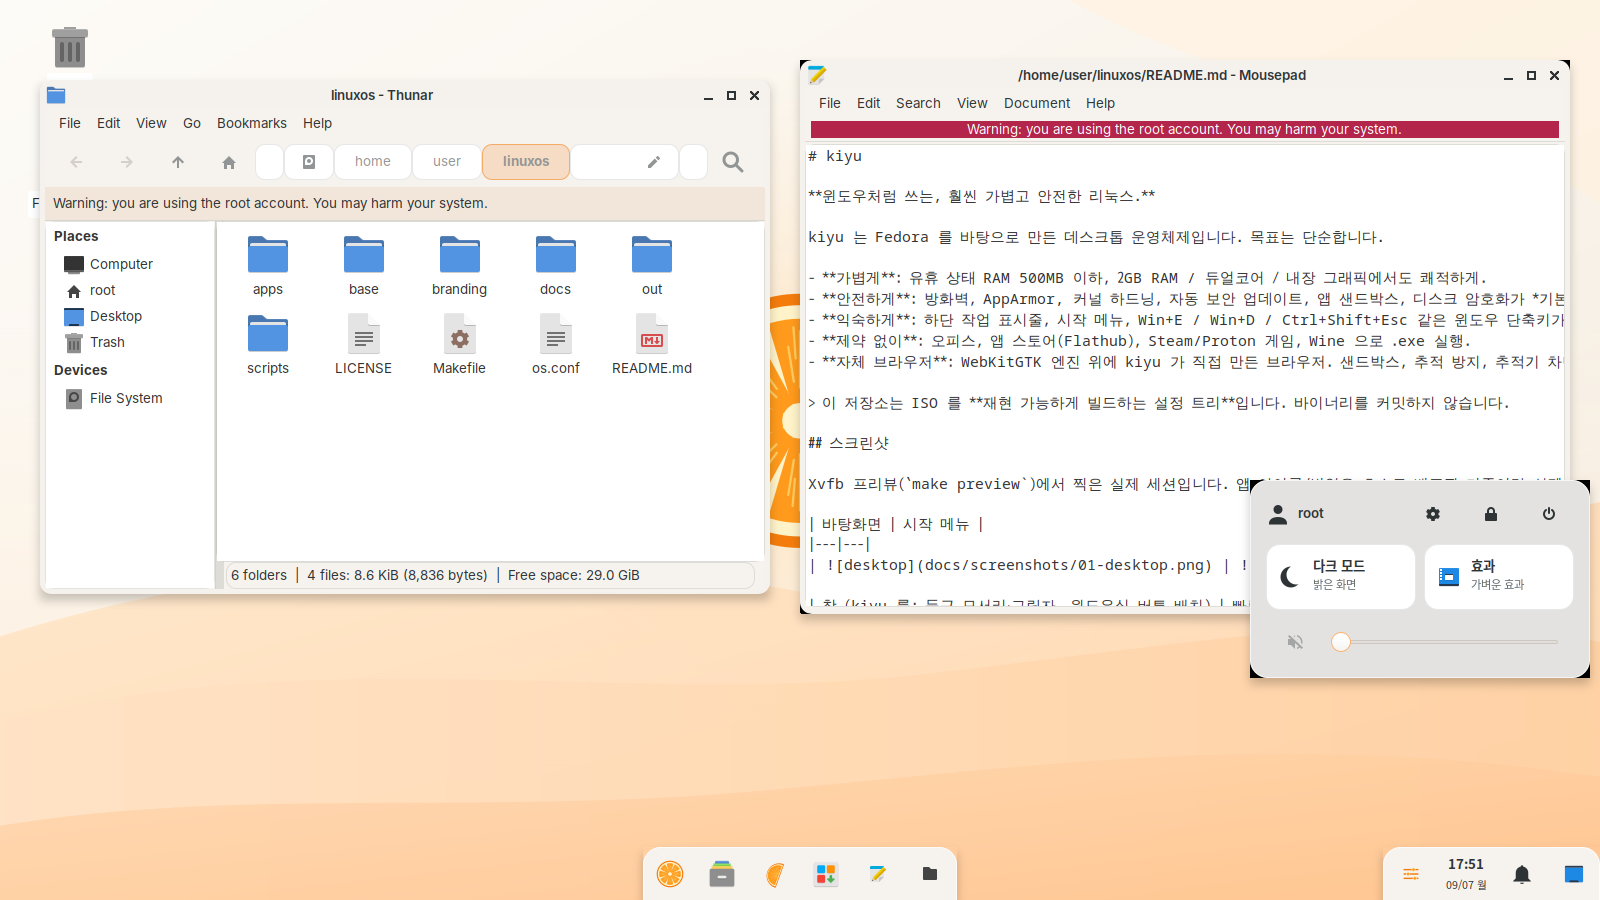
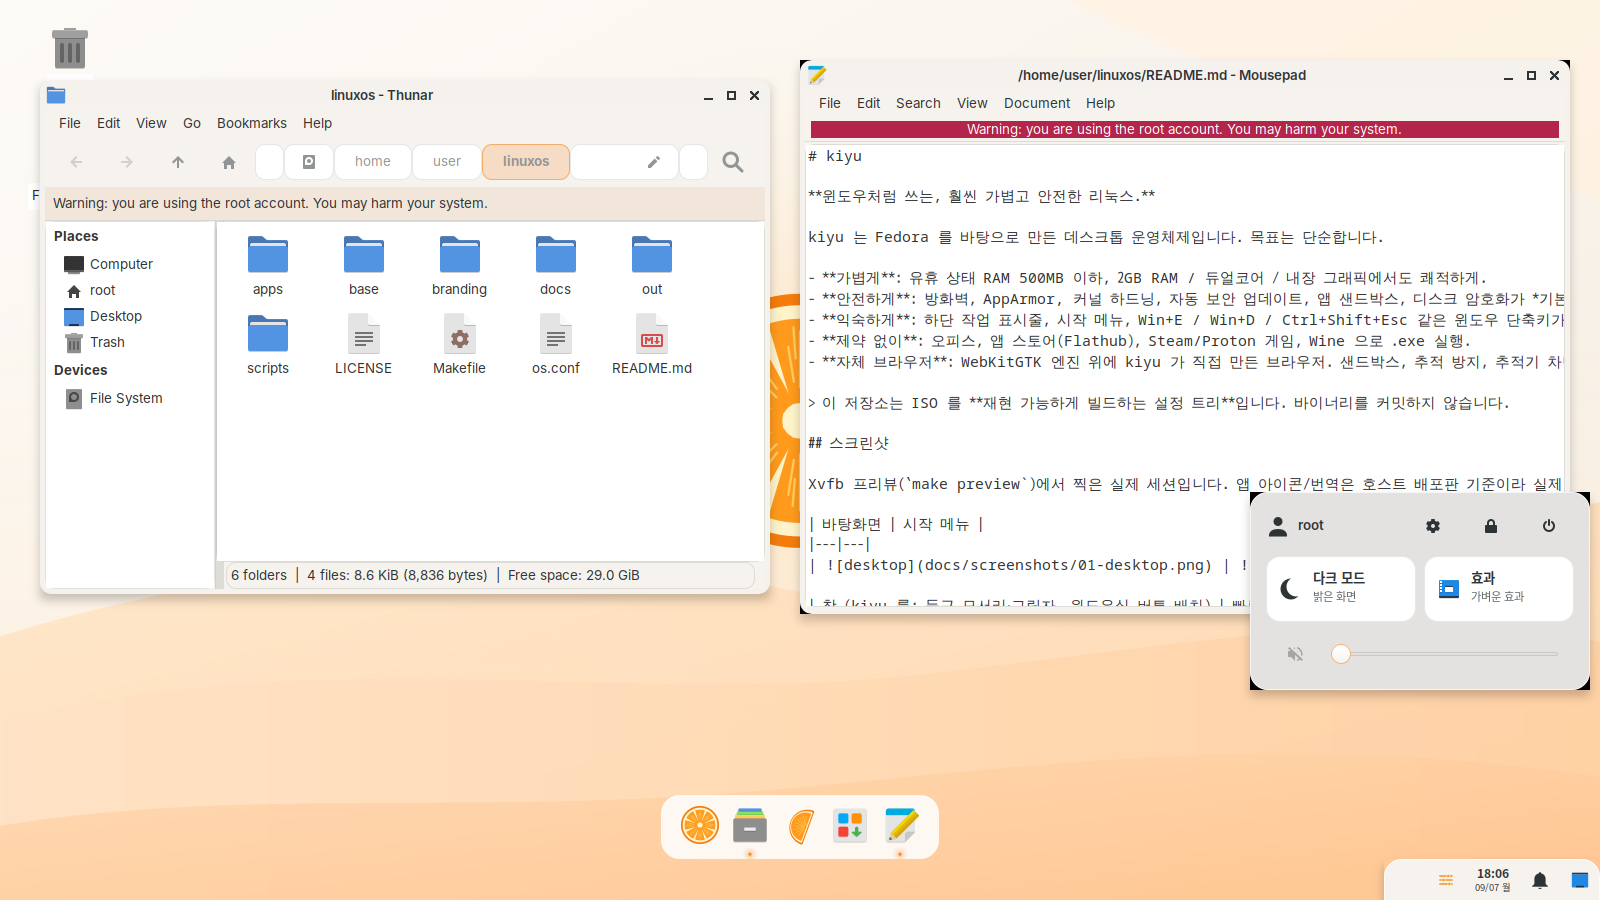
독을 Plank 로 교체: 가운데 떠 있는 독 + 오른쪽 알약
xfce4-panel 은 가장자리에서 띄울 수 없어 docklike 패널을 버리고 Plank 를
쓴다. Plank 는 오른쪽 알약(xfce4-panel)이 예약한 공간 위에 놓여 자연스럽게
떠 있고, 고정 앱 + 실행 중 창 + 점 표시로 윈도우식 동작을 유지한다.

- kiwi: plank, dconf 추가 / xfce4-docklike-plugin 제거
- /etc/dconf/db/local.d/00-kiyu-plank 기본값 (config.sh 가 dconf update),
  skel 의 dock1/launchers (시작·투나·탱자·소프트웨어), 자동 시작
- Plank 테마 kiyu / kiyu-dark (크림·다크 알약, 18px 라운드), 다크 모드 스크립트가 전환
- 패널은 오른쪽 알약 하나 (40px). whiskermenu 는 버튼을 숨기고 팝업 전용;
  독의 kiyu 로고와 Super 키가 `xfce4-popup-whiskermenu --pointer` 로 띄움
- picom: Plank 창은 그림자/라운드 제외 (자체 배경)
- 프리뷰 스크립트: plank 설치·설정, docklike 대체 코드 제거. 문서/스크린샷 갱신

Claude-Session: https://claude.ai/code/session_01DVt4fBqjhd9ckGmgeBjH8k

Changed region(s): [[0.7812, 0.5289, 1.0, 0.7778], [0.375, 0.8711, 0.625, 1.0], [0.8438, 0.9333, 1.0, 0.9956]]

diff --git a/base/fedora/root/etc/skel/.config/gtk-3.0/gtk.css b/base/fedora/root/etc/skel/.config/gtk-3.0/gtk.css
@@ -68,8 +68,7 @@ XfdesktopIconView.view:selected, .XfdesktopIconView.view:selected, XfdesktopIcon
 .xfce4-panel button, .xfce4-panel button.flat, .xfce4-panel button.toggle { border-radius: 12px; border: 1px solid transparent; background-color: transparent; background-image: none; box-shadow: none; padding: 4px 8px; }
 .xfce4-panel button:hover { background-color: alpha(@kiyu_accent, 0.12); }
 .xfce4-panel button:checked, .xfce4-panel button:active { background-color: alpha(@kiyu_accent, 0.20); }
-.xfce4-panel #whiskermenu-button { border-radius: 12px; }
-.xfce4-panel .docklike-button, .xfce4-panel #docklike button { padding: 4px 6px; }
+.xfce4-panel #whiskermenu-button { padding: 0; min-width: 1px; opacity: 0; }  /* 독/Super 키 팝업 전용, 버튼은 숨김 */
 
 /* 시작 메뉴 */
 #whiskermenu-window, #whiskermenu-window.background { border-radius: 18px; border: 1px solid alpha(@theme_base_color, 0.7); background-color: @kiyu_glass; }

diff --git a/apps/kiyu-control/kiyu-control.py b/apps/kiyu-control/kiyu-control.py
@@ -20,7 +20,7 @@ from gi.repository import Gdk, GLib, Gtk  # noqa: E402
 
 STATE_DIR = os.path.join(GLib.get_user_config_dir(), "kiyu")
 MARGIN = 10
-PANEL_H = 52 + MARGIN
+PANEL_H = 40 + MARGIN
 
 
 def run(cmd, timeout=3):

diff --git a/docs/architecture.md b/docs/architecture.md
@@ -68,8 +68,13 @@ Recommends 를 끄고 빌드하므로(`--apt-recommends false`) 이미지가 작
 ### 5b. 룩앤필: 사양을 먹지 않는 "트렌디"
 
 - **배경**: 크림 종이 위 파스텔 곡선(새벽 언덕)과 귤 단면 로고. 정적 PNG 한 장이라 비용 0.
-- **작업표시줄**: 가운데 독(시작 + 고정/실행 앱, docklike) + 오른쪽 알약(트레이·빠른 설정·시계·알림). 윈도우 11 배치에 macOS 독 느낌.
+- **독**: 가운데 떠 있는 독은 Plank (`plank` 패키지, `/etc/dconf/db/local.d/00-kiyu-plank`, 테마 `/usr/share/plank/themes/kiyu{,-dark}`).
+  고정 앱 + 실행 중 창을 한 아이콘으로, 실행 중이면 아래 점 (윈도우 작업표시줄과 같은 동작). 첫 아이콘(kiyu 로고)이 시작 메뉴.
+  xfce4-panel 은 화면 가장자리에서 띄우는 기능이 없어 독으로 쓰지 않는다. Plank 는 약 30~50 MB 상주.
+- **작업표시줄 알약**: 오른쪽 아래 xfce4-panel 하나 (트레이·빠른 설정·시계·알림·바탕화면 보기). whiskermenu 플러그인은
+  버튼을 숨긴 채 팝업 전용으로 들어 있다 (`xfce4-popup-whiskermenu --pointer` 가 독의 로고 클릭과 Super 키에서 호출).
   배경은 xfconf 가 아니라 `~/.config/gtk-3.0/gtk.css` 의 `.xfce4-panel` 이 그려서 테마 색(다크 모드)을 따라간다.
+  Plank 는 이 알약이 예약한 공간 위에 놓이므로 자연스럽게 바닥에서 떠 있다.
 - **창**: xfwm4 자체 컴포지팅 대신 picom(xrender) — 둥근 모서리 12px, 부드러운 그림자, 짧은 페이드. CPU 1~3%.
   유리 블러(glx, dual_kawase)는 GPU 없는 기기에서 비싸므로 기본 OFF, 빠른 설정 "효과" 스위치로 켠다 (`/usr/lib/kiyu/compositor`).
 - **빠른 설정** (`apps/kiyu-control`): Wi-Fi/블루투스/다크 모드/효과 토글, 소리·밝기, 배터리. 상주하지 않는 Python GTK 창(열려 있을 때만 ~20 MB).

diff --git a/docs/roadmap.md b/docs/roadmap.md
@@ -3,9 +3,9 @@
 ## 0.2 – Fedora + kiyu 룩 (진행 중)
 
 - [x] Fedora 44 + kiwi-ng 라이브 ISO, BIOS/UEFI(Secure Boot) 부팅, SELinux enforcing, nftables
-- [x] 탱자 브라우저 (WebKitGTK), Super 키 시작 메뉴, docklike 작업표시줄
-- [x] 새벽 배경 + 가운데 독 + 오른쪽 알약 + picom 둥근 창 + 빠른 설정(다크 모드·효과) — Xvfb 프리뷰 검증, ISO 검증 대기
-- [ ] 실제 ISO 에서 picom/빠른 설정/docklike 확인, 메모리 재측정
+- [x] 탱자 브라우저 (WebKitGTK), Super 키 시작 메뉴
+- [x] 새벽 배경 + Plank 떠 있는 독 + 오른쪽 알약 + picom 둥근 창 + 빠른 설정(다크 모드·효과) — Xvfb 프리뷰 검증, ISO 검증 대기
+- [ ] 실제 ISO 에서 picom/빠른 설정/Plank 확인, 메모리 재측정
 - [ ] 바탕화면 시계·달력 위젯(선택), 통합 검색 런처
 
 ## 0.1 – 스캐폴드 (현재)
@@ -39,7 +39,7 @@ Xvfb 프리뷰에서 확인된 것:
 - [x] 탱자 브라우저 v0 (WebKitGTK): 탭·주소창·검색·즐겨찾기·다운로드, 샌드박스·ITP·추적기 차단·권한 기본 거부
 - [x] kiyu-superkey (Super 탭 → 시작 메뉴, Super+화살표 유지) — Xvfb 에서 검증
 - [ ] Fedora ISO 부팅 테스트: 자동 로그인, SELinux enforcing, firewalld 존, dnf-automatic, 메모리
-- [ ] docklike 작업표시줄 기본값(고정 앱 목록 `docklike-2.rc` 의 pinned 경로 형식) 실제 ISO 에서 확인
+- [ ] Plank 독 기본값(dconf 시스템 DB, skel 런처) 실제 ISO 에서 확인
 - [ ] Anaconda 설치 흐름 (BIOS/UEFI, LUKS)
 - [ ] RPM Fusion 코덱 설치 도우미, 릴리스 업그레이드 도우미
 - [ ] 브라우저 v1: Vala/Rust 이식, EasyPrivacy 필터 자동 갱신, 비밀번호 관리자, WebRTC UI

diff --git a/docs/windows-user-guide.md b/docs/windows-user-guide.md
@@ -28,7 +28,7 @@
 
 | 윈도우 | kiyu | 비고 |
 |---|---|---|
-| 작업표시줄 고정 | 작업표시줄 아이콘 우클릭 > 고정 | 고정 앱과 실행 중 창이 한 버튼, 실행 중이면 아래 점 표시 (docklike) |
+| 작업표시줄 고정 | 작업표시줄 아이콘 우클릭 > 고정 | 독 아이콘 우클릭 > 독에 고정. 고정 앱과 실행 중 창이 한 아이콘, 실행 중이면 아래 점 표시 (Plank) |
 | 파일 탐색기 | Thunar | 경로 표시줄, 주소 직접 입력, 휴지통, 외장 드라이브 자동 마운트, 윈도우 NTFS 파티션 읽기/쓰기 |
 | Edge | 탱자 브라우저 | 추적기 차단·샌드박스 기본. Chromium 전용 사이트는 "Chromium 설치" 안내 |
 | 메모장 | Mousepad | |
